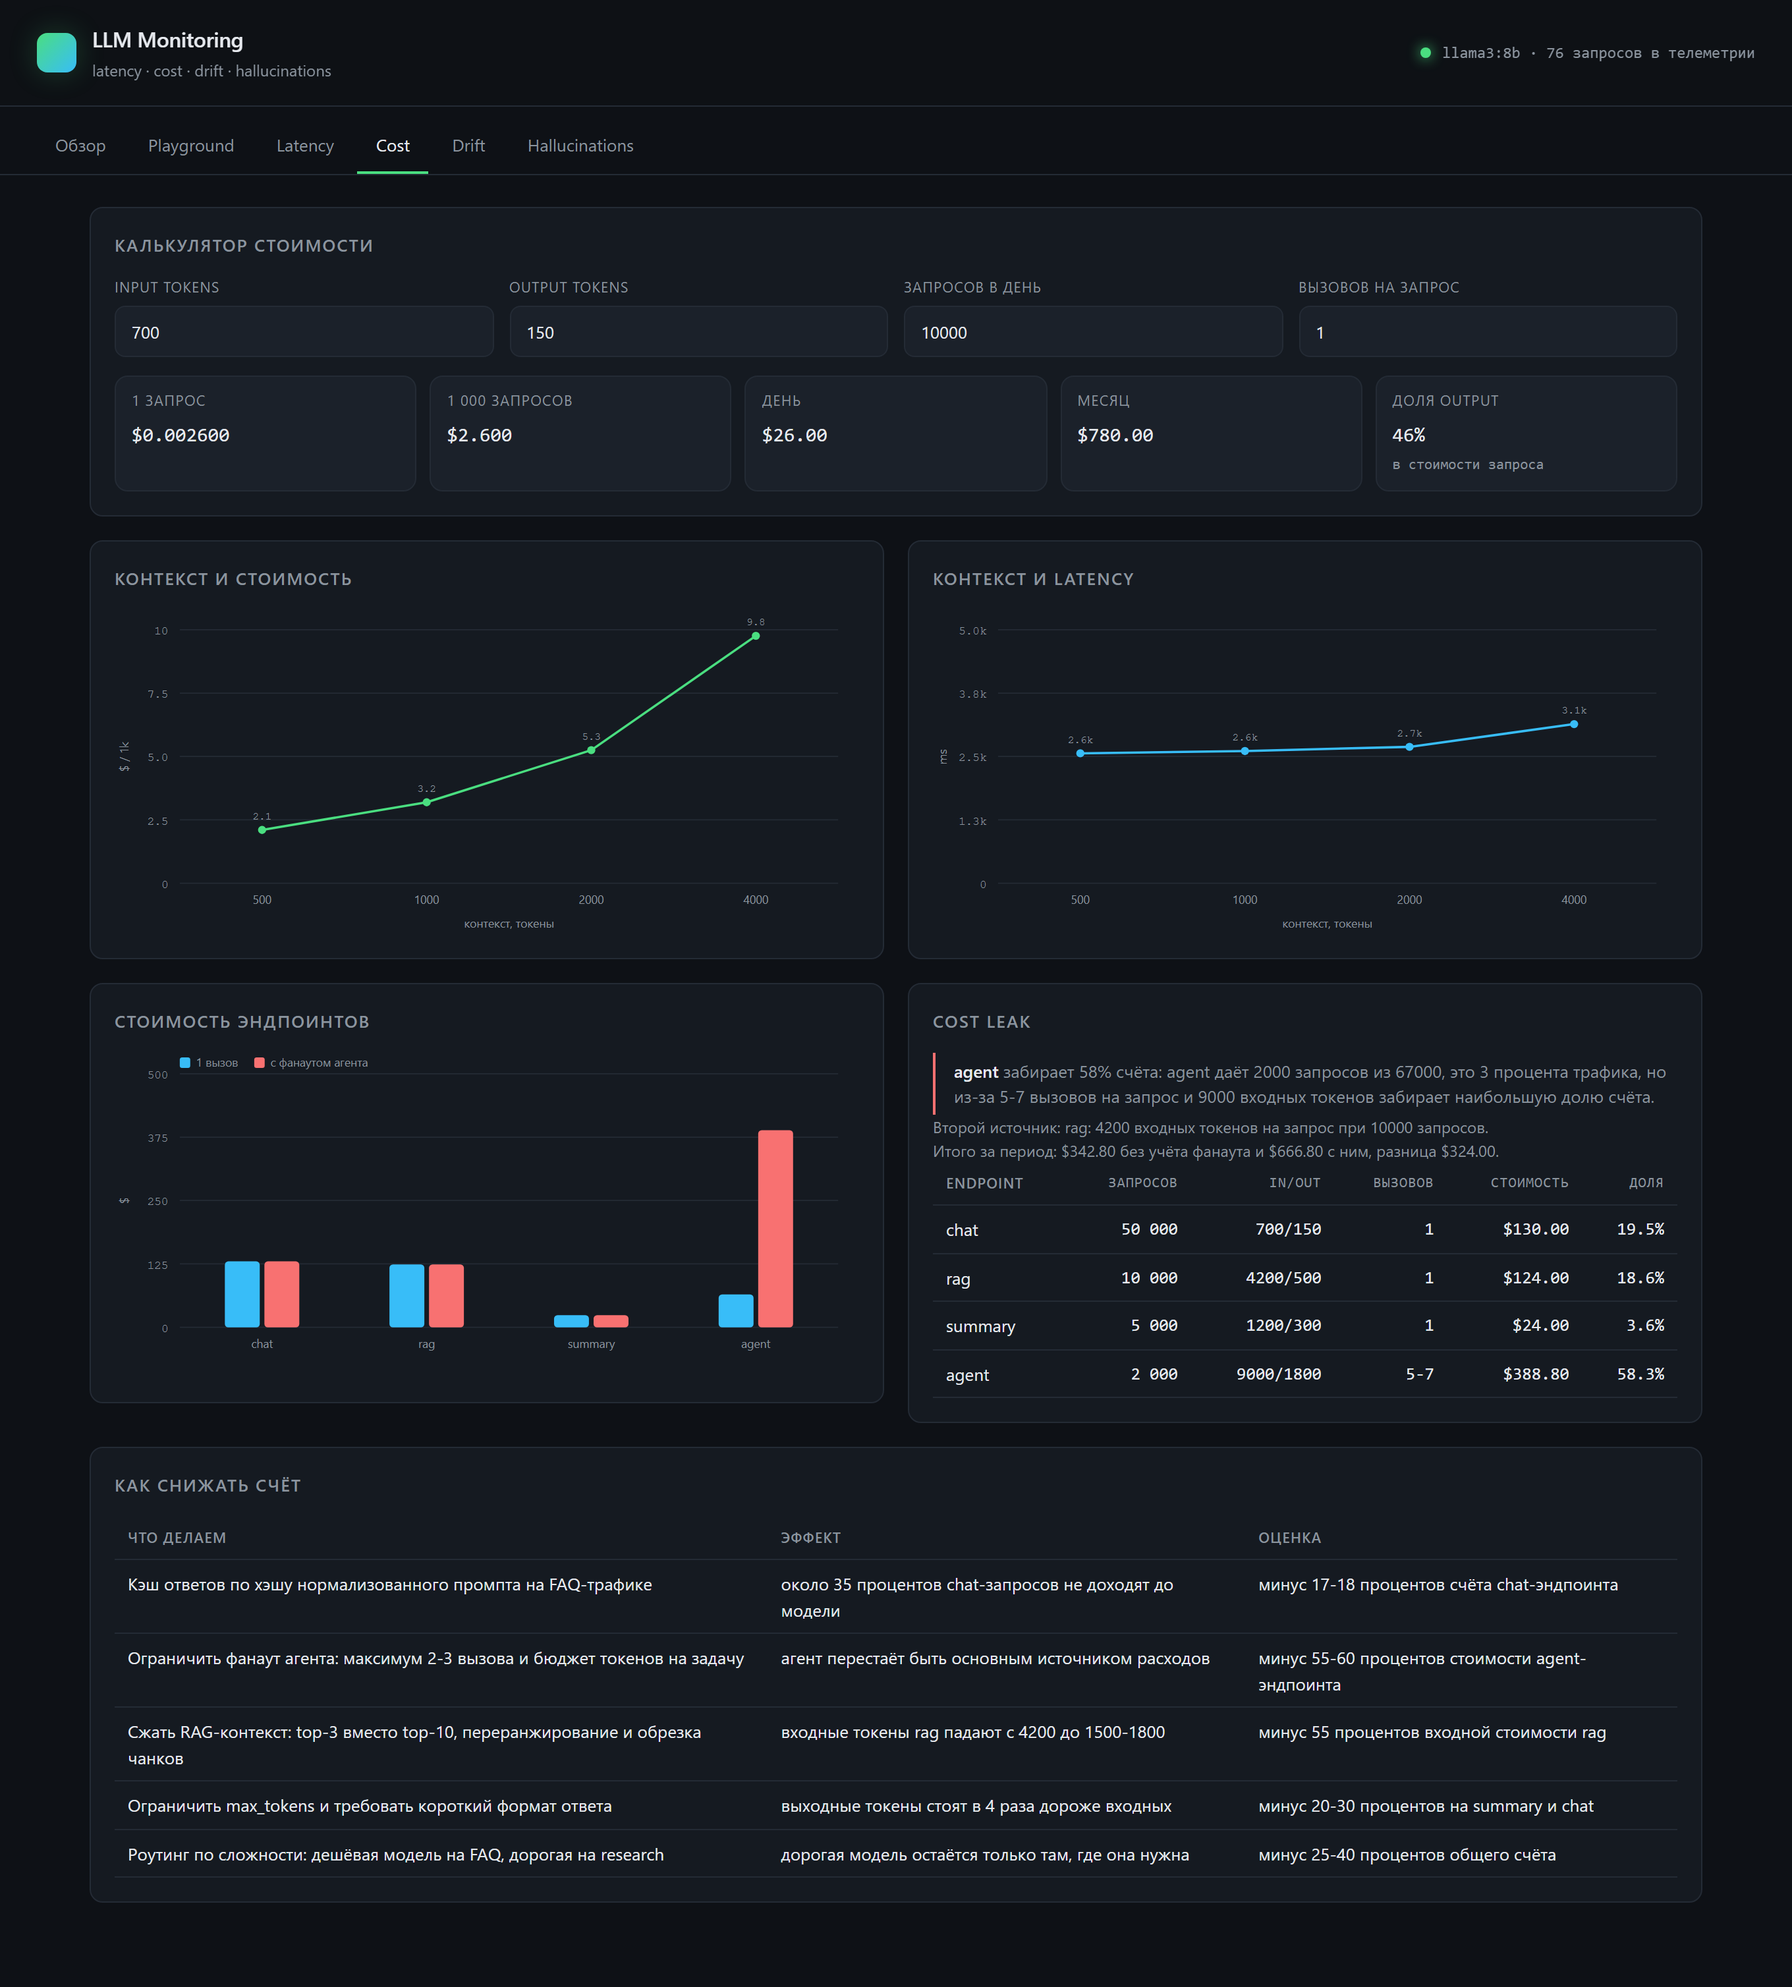
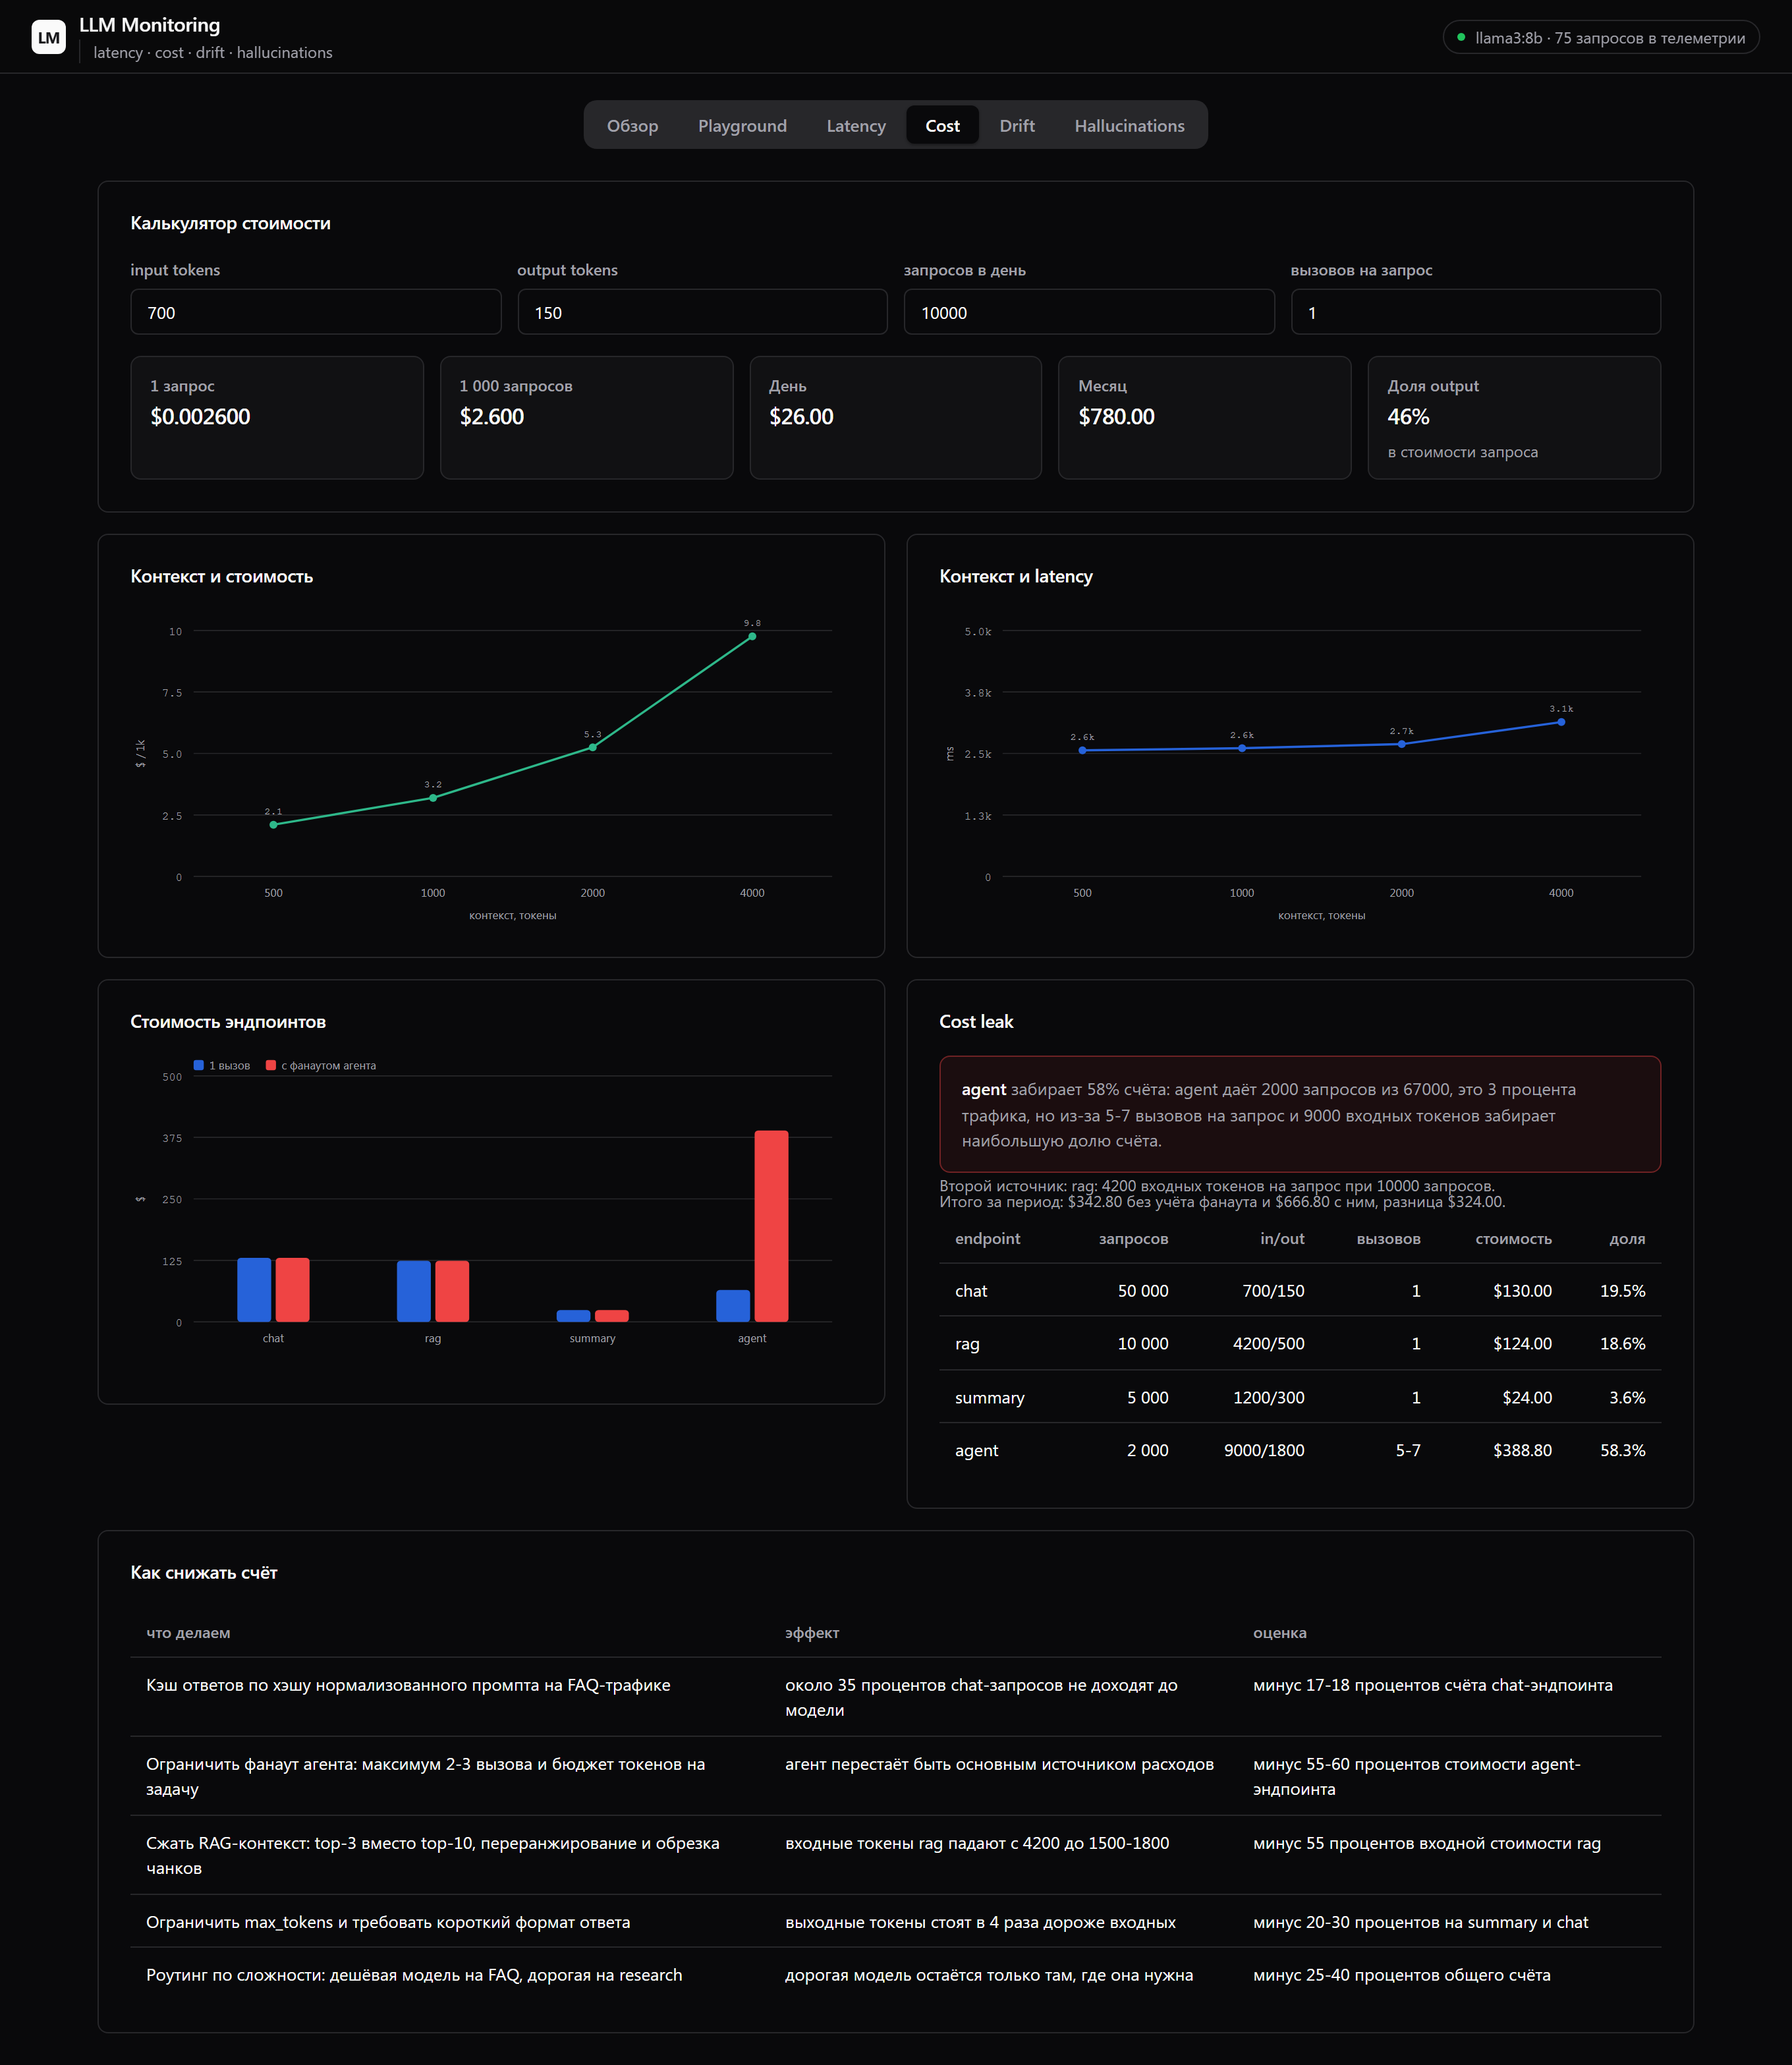
docs: обновил скриншоты дашборда

diff --git a/README.md b/README.md
@@ -19,7 +19,7 @@ Client  ->  API (FastAPI)  ->  pipeline  ->  Ollama (llama3:8b)
 
 ## Что внутри
 
-- API-сервис на FastAPI с дашбордом в тёмной теме, без внешних JS-библиотек.
+- API-сервис на FastAPI с дашбордом в тёмной теме: вёрстка по токенам shadcn/ui, без внешних JS-библиотек.
 - Пайплайн запроса: валидация, препроцессинг, retrieval по локальной базе знаний, вызов модели, постобработка, запись телеметрии. Время каждого этапа пишется в базу.
 - Телеметрия в SQLite: `request_id`, `timestamp`, `model`, `prompt`, `response`, `latency_ms`, `input_tokens`, `output_tokens`, `endpoint`, `language`, `topic`, стоимость и тайминги этапов. Выгрузка в CSV лежит в `reports/telemetry.csv`.
 - Четыре скрипта, которые прогоняют кейсы и складывают результаты в `reports/` в виде JSON, CSV и PNG.
@@ -116,7 +116,7 @@ web/
 
 ## Дашборд
 
-Шесть вкладок: обзор, playground и по одной на каждый кейс. Графики нарисованы на чистом SVG, никаких CDN, поэтому дашборд работает без интернета.
+Шесть вкладок: обзор, playground и по одной на каждый кейс. Оформление собрано на токенах shadcn/ui (тема zinc, палитра chart-1..chart-5), графики нарисованы на чистом SVG. Ни одного CDN, дашборд работает без интернета.
 
 ![Вкладка cost](docs/cost.png)
 
